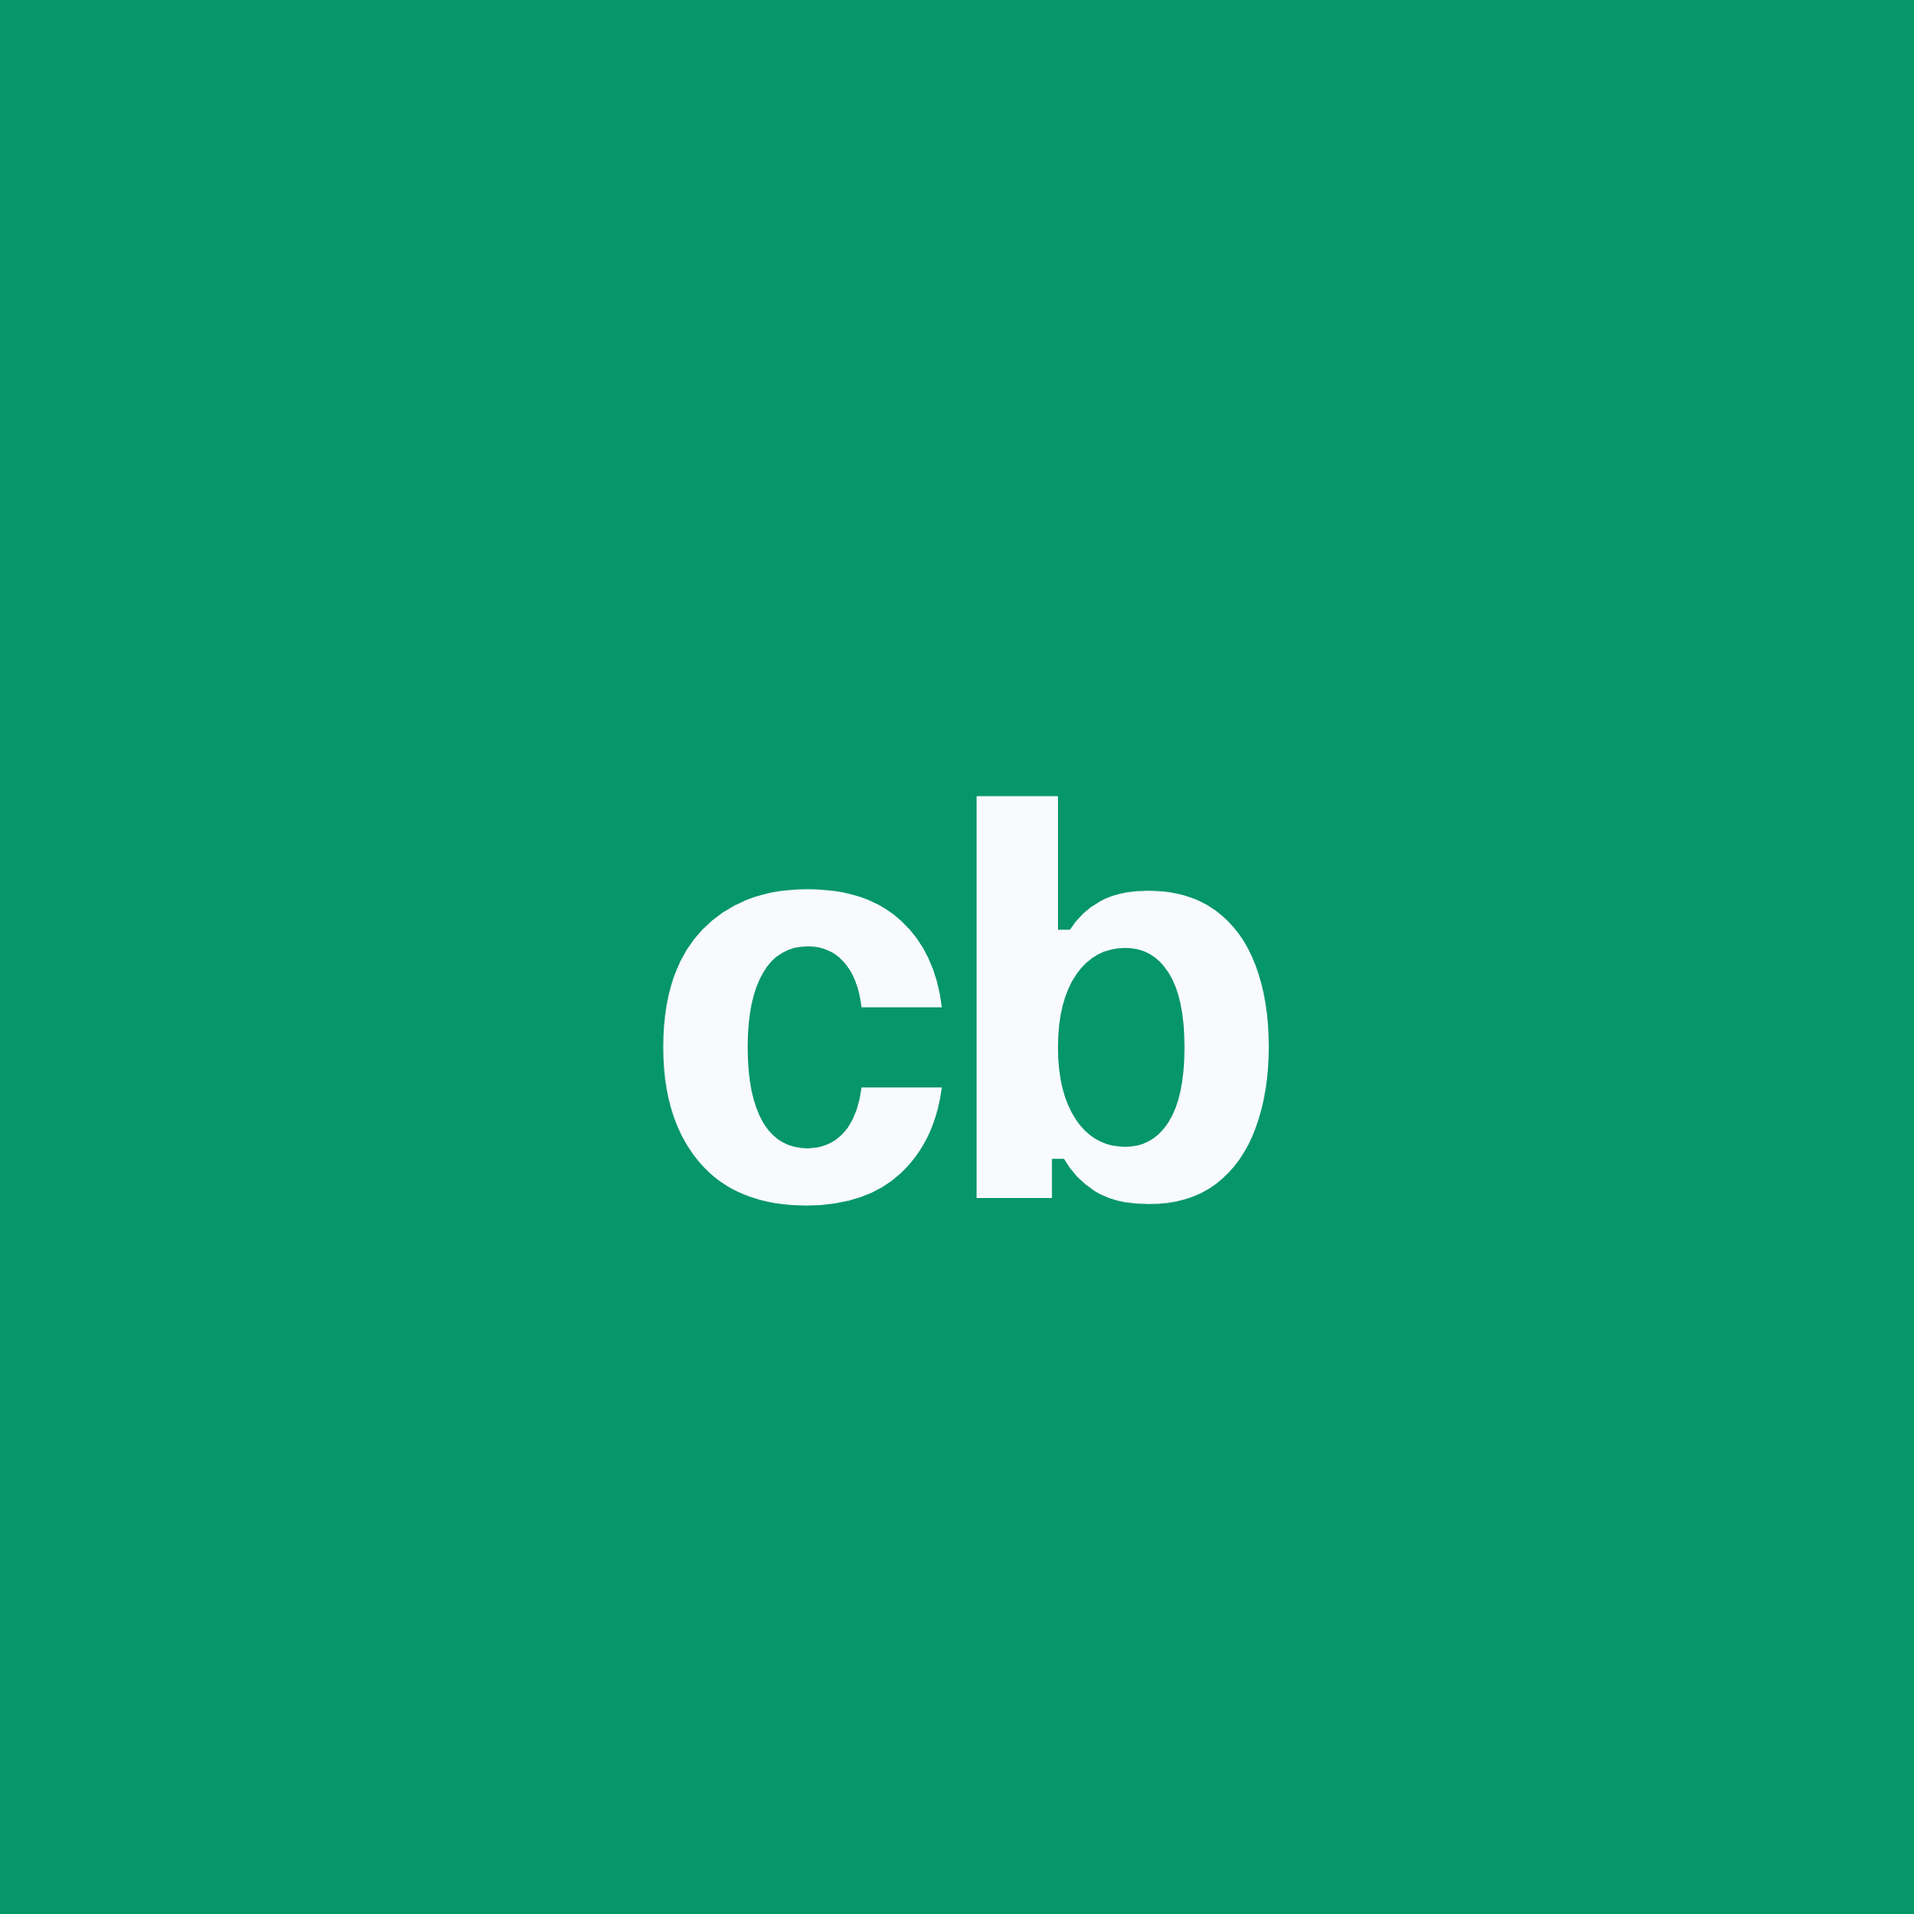
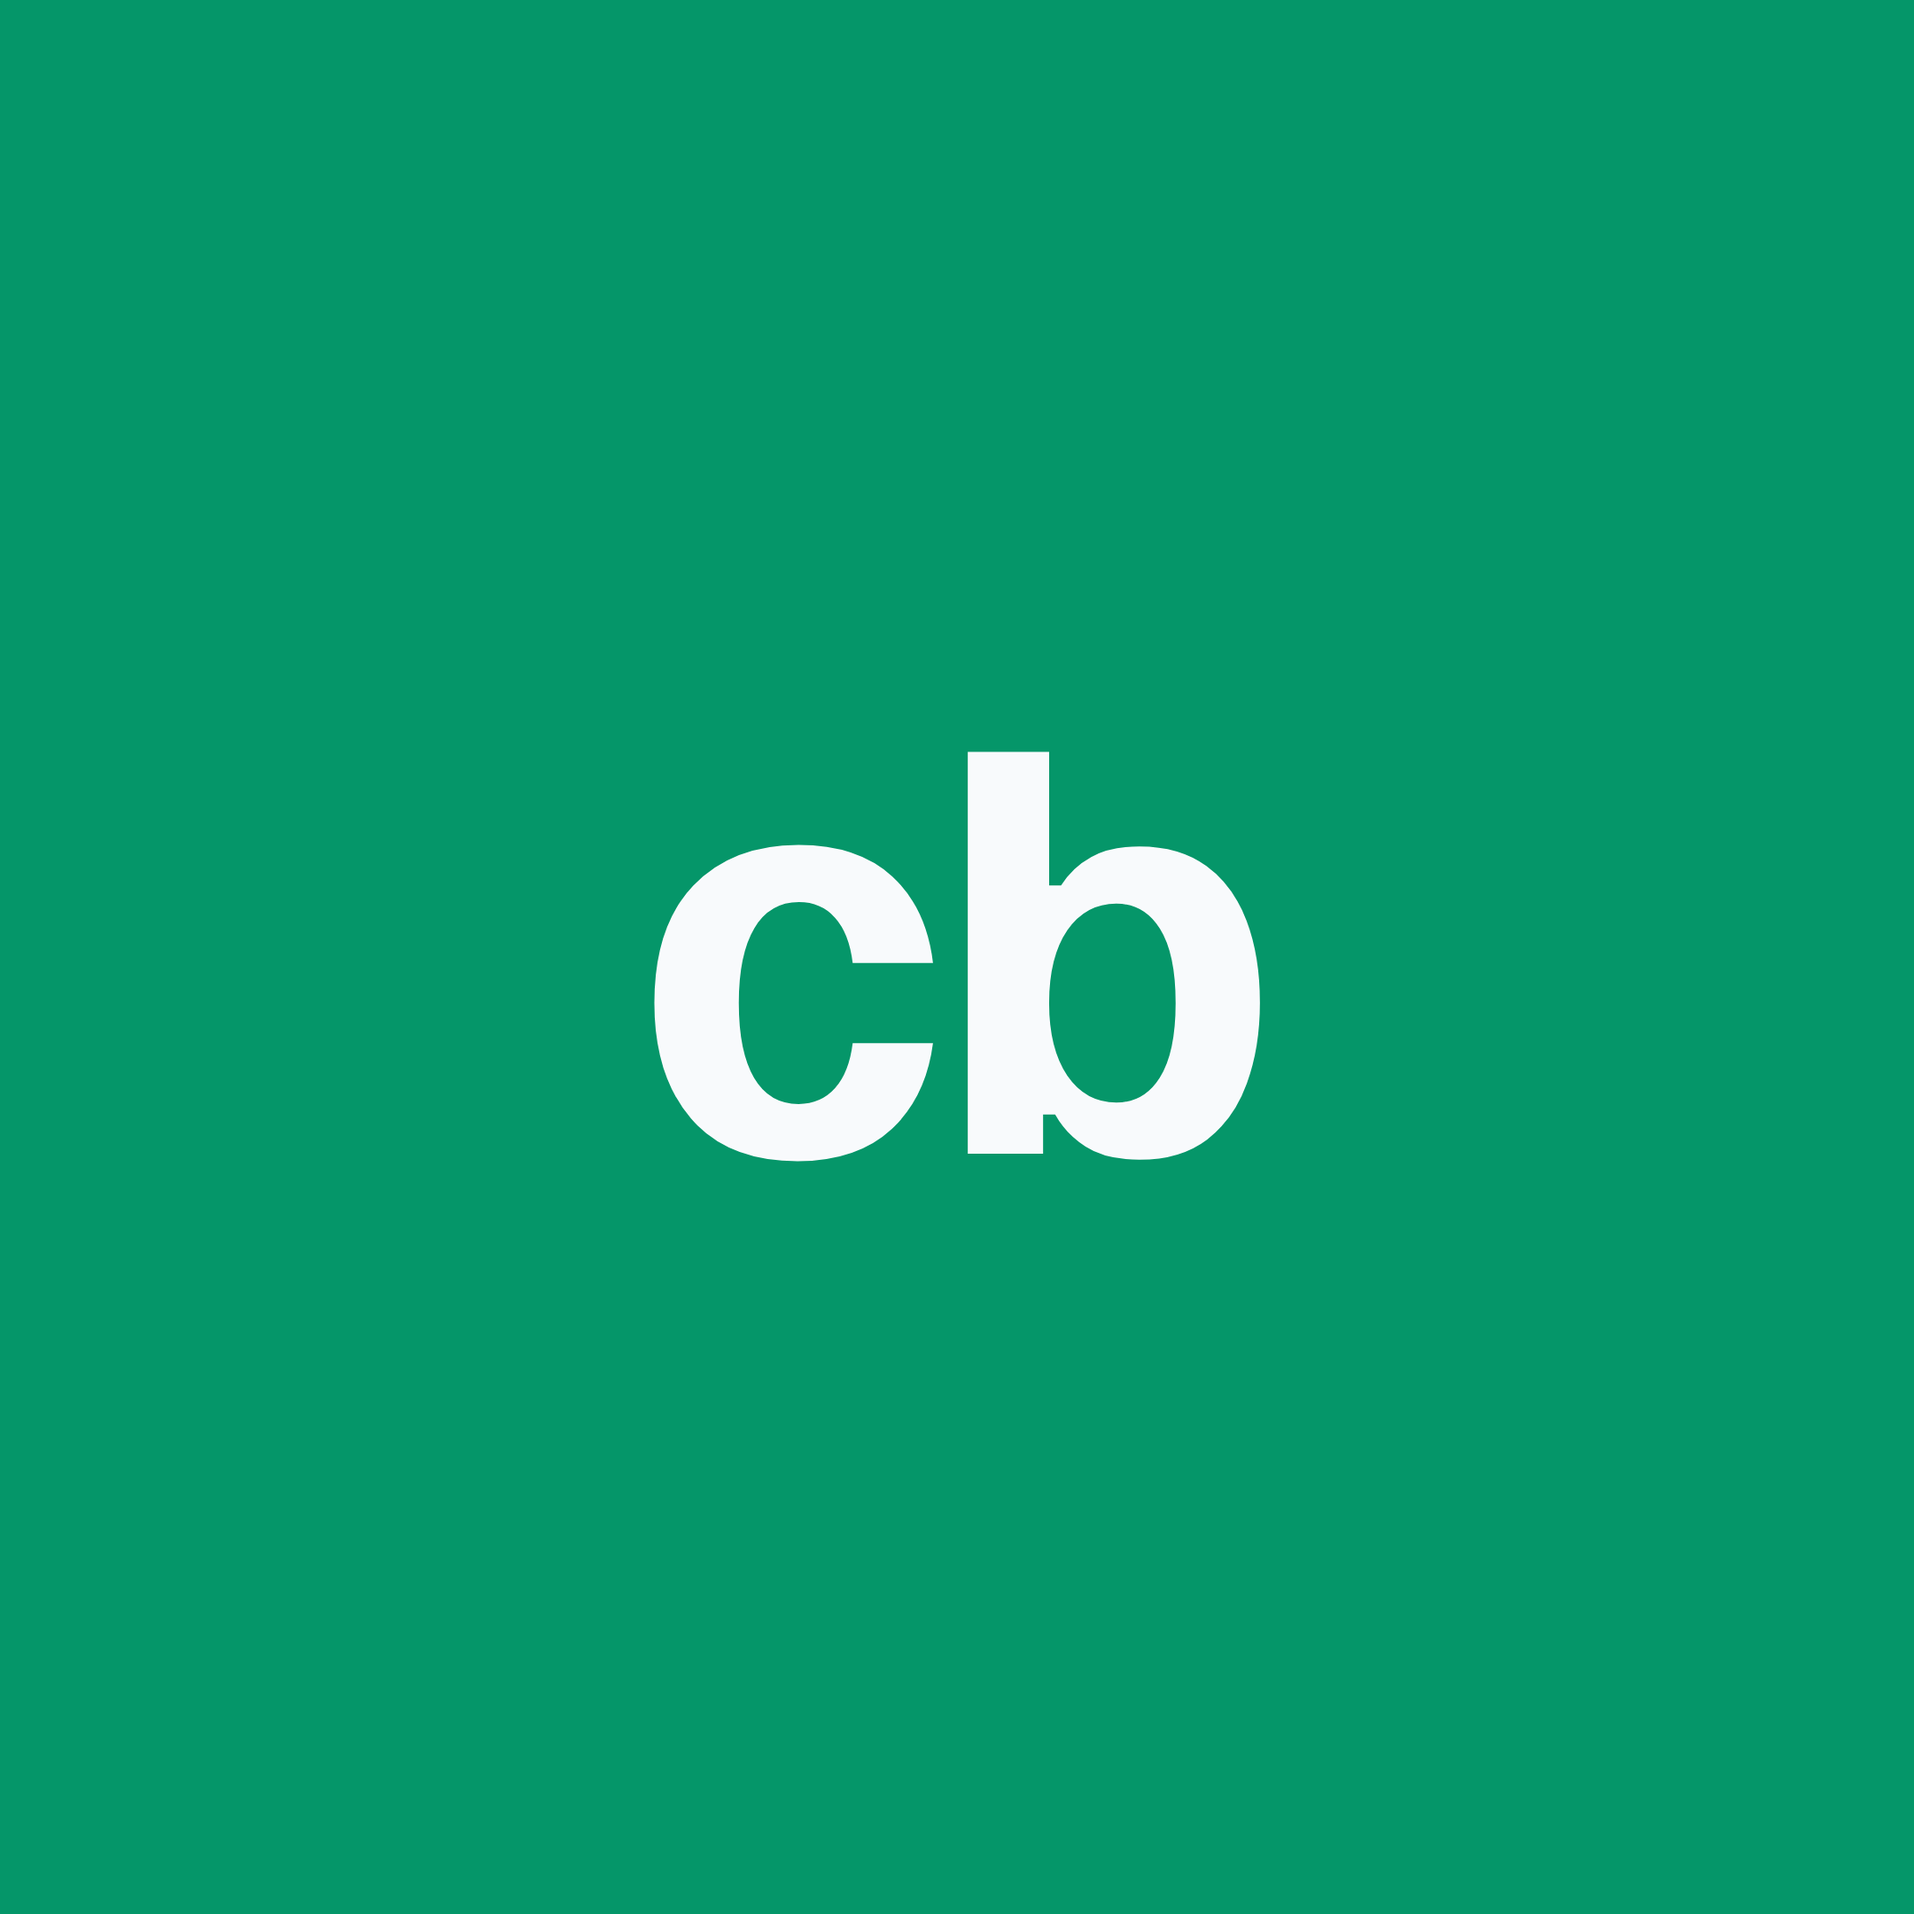
Adiciona arte "cb" sobre roxo sem anel e corrige o centro óptico da versão verde
Nova arte 08-perfil-cb-roxo (e sua -zoom): o monograma sozinho sobre o roxo da
marca - a do anel sem o anel, ou a verde na cor da marca.

Ao montar, ficou claro que a correção de centro óptico existia só na arte do
anel: a versão verde saía 49px baixo e 10px à direita, porque o flex centraliza
a caixa da linha de texto e não a tinta do glifo ("cb" não tem descendente, e
sobra o espaço reservado a ele). Num recorte circular isso aparece.

O glifo virou a função _glifo_cb, compartilhada pelas três artes, então a
correção passa a valer para todas e não dá para uma nova nascer sem ela. A
verde foi regerada já centralizada.

Claude-Session: https://claude.ai/code/session_017WZWLEiMQvHUst5KUYseHY

Changed region(s): [[0.3412, 0.3722, 0.6824, 0.6514]]

diff --git a/marketing/instagram/gerar_artes_marca.py b/marketing/instagram/gerar_artes_marca.py
@@ -100,15 +100,38 @@ def render(body_html, filename, width=1080, height=1080, destino=None, escala=2)
 # Um k único não serviria: cada arte parte de uma ocupação diferente, então cada uma
 # precisa do seu fator para todas chegarem no mesmo destino.
 
+def _glifo_cb(k, cor=None):
+    """O monograma "cb" com o centro óptico corrigido.
+
+    O flex centraliza a CAIXA da linha de texto, não a tinta do glifo - como "cb" não
+    tem descendente, sobra espaço embaixo (reservado pra letras como "g"/"p") e o "cb"
+    fica visualmente baixo e um pouco à direita. line-height:1 reduz a caixa e o
+    transform compensa o resto (medido em pixel real via screenshot).
+
+    Virou função compartilhada porque a correção existia só na arte do anel: a versão
+    verde saía 49px baixo e 10px à direita, o que num recorte circular aparece."""
+    cor = cor or COLORS["paper"]
+    return (
+        f'<div style="font-size:{340*k:.0f}px; line-height:1; font-weight:700; '
+        f'letter-spacing:-0.03em; color:{cor}; '
+        f'transform:translate({-5*k:.0f}px, {-25*k:.0f}px);">cb</div>'
+    )
+
+
 def arte_perfil_cb_anel(k=1):
-    # O flex centraliza a CAIXA da linha de texto, não a tinta do glifo - como "cb" não
-    # tem descendente, sobra espaço embaixo (reservado pra letras como "g"/"p") e o "cb"
-    # fica visualmente baixo. line-height:1 reduz a caixa, e o transform compensa o resto
-    # (medido em pixel real via screenshot até a tinta ficar centralizada no anel).
     return f"""
     <div class="canvas" style="background:{COLORS['brand']}; align-items:center; justify-content:center;">
         <div style="position:absolute; width:{760*k:.0f}px; height:{760*k:.0f}px; border-radius:50%; border:{26*k:.0f}px solid {COLORS['highlight']}; opacity:0.9;"></div>
-        <div style="font-size:{340*k:.0f}px; line-height:1; font-weight:700; letter-spacing:-0.03em; color:{COLORS['paper']}; transform:translate({-5*k:.0f}px, {-25*k:.0f}px);">cb</div>
+        {_glifo_cb(k)}
+    </div>
+    """
+
+
+def arte_perfil_cb_roxo(k=1):
+    """Igual à do anel, sem o anel - o monograma sozinho sobre o roxo da marca."""
+    return f"""
+    <div class="canvas" style="background:{COLORS['brand']}; align-items:center; justify-content:center;">
+        {_glifo_cb(k)}
     </div>
     """
 
@@ -116,7 +139,7 @@ def arte_perfil_cb_anel(k=1):
 def arte_perfil_cb_verde(k=1):
     return f"""
     <div class="canvas" style="background:{COLORS['success']}; align-items:center; justify-content:center;">
-        <div style="font-size:{340*k:.0f}px; font-weight:700; letter-spacing:-0.03em; color:{COLORS['paper']};">cb</div>
+        {_glifo_cb(k)}
     </div>
     """
 
@@ -164,6 +187,8 @@ ARTES_QUADRADAS = [
     (arte_wordmark_claro, "04-wordmark-claro", 1.33),
     (arte_lockup_sacola, "05-lockup-sacola", 1.44),
     (arte_lockup_moeda, "06-lockup-moeda", 1.35),
+    # Mesmo glifo e mesmo corpo da versão verde, então mesmo fator de zoom.
+    (arte_perfil_cb_roxo, "08-perfil-cb-roxo", 1.98),
 ]
 
 for construir, nome, zoom in ARTES_QUADRADAS:
